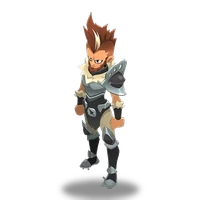
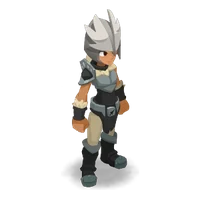
Forgelance : vrai rendu du jeu (8 têtes par sexe, couleurs, capes)
- Le jeu demande à DofusDB le corps et la tête séparément, cale la tête sur l'ombre au sol, la pose sur le cou et colore la peau quand elle arrive pâle (forgeLook dans ui.js). Résultat gardé en mémoire et dans le navigateur.
- Les 16 apparences de base et les portraits du Forgelance viennent de ce rendu ; choix de la tête et des couleurs réactivés pour lui.
- Les coiffes ne s'affichent pas sur le Forgelance (le moteur de rendu ne sait pas les poser).
- sw.js : images de renderer.dofusdb.fr mises en cache, cache des images media-v6.

Claude-Session: https://claude.ai/code/session_01TgfgsFbfimzPE6UbE45j36

Changed region(s): [[0.3, 0.03, 0.72, 1.0]]

diff --git a/js/ui.js b/js/ui.js
@@ -176,23 +176,72 @@ const lookLocal = (cls, sex, hi) => `assets/look/${cls}_${sex === "f" ? "f" : "m
 function lookUrl(c, opts = {}) {
   const L = LK.CLASS_LOOKS[c.cls]; if (!L) return null; const sx = c.sex === "f" ? "f" : "m"; const D2 = L[sx]; const hi = Math.max(0, Math.min(D2.heads.length - 1, c.head || 0));
   const skins = [D2.body, D2.heads[hi]];
-  if (!opts.bare && c.equip) ["coiffe", "cape"].forEach((sl) => { const it = S && S.items[c.equip[sl]]; const sk = it && LK.ITEM_SKINS[it.tpl]; if (sk) skins.push(sk); });
+  if (!opts.bare && c.equip) ["coiffe", "cape"].forEach((sl) => { const it = S && S.items[c.equip[sl]]; const sk = it && LK.ITEM_SKINS[it.tpl]; if (sk && !(c.cls === "forge" && sl === "coiffe")) skins.push(sk); }); // le moteur de rendu ne pose aucune coiffe sur le Forgelance
   const pal = LK.PALETTES.find((p) => p.id === (opts.palette || c.palette)) || LK.PALETTES[0];
   const cols = D2.colors.slice(); if (pal && pal.c) pal.c.forEach((v, i) => (cols[i + 1] = v));
-  if (c.cls === "forge" || (skins.length === 2 && (!pal || !pal.c))) return lookLocal(c.cls, sx, hi); // Forgelance : rendu Ankama défaillant (tête détachée), on garde nos images recomposées
+  if (skins.length === 2 && (!pal || !pal.c)) return lookLocal(c.cls, sx, hi);
+  if (c.cls === "forge") return forgeLook(skins, cols, sx, hi); // Forgelance : tête recollée sur le cou (voir forgeLook)
   const look = `{1|${skins.join(",")}|${cols.map((v, i) => `${i + 1}=${v}`).join(",")}|140}`;
   let hex = ""; for (const ch of unescape(encodeURIComponent(look))) hex += ch.charCodeAt(0).toString(16).padStart(2, "0");
   return `https://static.ankama.com/dofus/renderer/look/${hex}/full/1/200_200-10.png`;
 }
-const lookImg = (c, cls = "look", opts) => { const u = lookUrl(c, opts); if (!u) return ""; const fb = lookLocal(c.cls, c.sex, c.head || 0); return `<img class="${cls}" src="${u}" alt="" loading="lazy" onerror="if(this.src.indexOf('assets/look')<0){this.src='${fb}'}else{this.style.visibility='hidden'}">`; };
+/* Forgelance : les moteurs de rendu (Ankama et DofusDB) dessinent sa tête à côté du corps et sans ses couleurs.
+   On demande à DofusDB (qui autorise la lecture des pixels) le corps seul et la tête seule, on cale la tête sur l'ombre au sol
+   (repère commun aux deux images), on la pose sur le cou et on colore la peau quand elle arrive pâle. Résultat gardé en mémoire et dans le navigateur. */
+const FORGE_NECK = [-290, -420], FORGE_KEY = "idlus-forge-v1", FORGE = { map: null, wait: {} };
+const forgeHex = (skins, cols) => { let x = ""; for (const ch of `{1|${skins.join(",")}|${cols.map((v, i) => `${i + 1}=${v}`).join(",")}|140}`) x += ch.charCodeAt(0).toString(16).padStart(2, "0"); return `https://renderer.dofusdb.fr/look/${x}/full/1/300_300.png`; };
+function forgeStore() { if (!FORGE.map) { FORGE.map = new Map(); try { (JSON.parse(localStorage.getItem(FORGE_KEY)) || []).forEach(([k, v]) => FORGE.map.set(k, v)); } catch (e) { /* stockage indisponible */ } } return FORGE.map; }
+function forgeLook(skins, cols, sx, hi) {
+  const key = skins.join("-") + "_" + cols.join("-"), m = forgeStore();
+  if (m.has(key)) return { src: m.get(key), key };
+  if (!FORGE.wait[key]) FORGE.wait[key] = forgeCompose(skins, cols).then((url) => {
+    m.delete(key); m.set(key, url); while (m.size > 12) m.delete(m.keys().next().value);
+    try { localStorage.setItem(FORGE_KEY, JSON.stringify([...m])); } catch (e) { /* stockage plein : on garde en mémoire */ }
+    document.querySelectorAll(`img[data-fk="${key}"]`).forEach((im) => (im.src = url));
+  }).catch(() => {}); // hors ligne : l'image locale reste
+  return { src: lookLocal("forge", sx, hi), key };
+}
+const forgeLoad = (u) => new Promise((ok, ko) => { const i = new Image(); i.crossOrigin = "anonymous"; i.onload = () => ok(i); i.onerror = ko; i.src = u; });
+const forgePix = (img) => { const c = document.createElement("canvas"); c.width = img.naturalWidth; c.height = img.naturalHeight; const x = c.getContext("2d"); x.drawImage(img, 0, 0); return { c, d: x.getImageData(0, 0, c.width, c.height) }; };
+function forgeShadow(d, W, H) { // bas de l'ombre au sol, largeur et centre juste au-dessus
+  const on = (x, y) => d[(y * W + x) * 4 + 3] > 4; let y = H - 1; while (y > 0) { let x = 0; while (x < W && !on(x, y)) x++; if (x < W) break; y--; }
+  const yy = y - 6; let x0 = W, x1 = -1; for (let x = 0; x < W; x++) if (on(x, yy)) { if (x < x0) x0 = x; x1 = x; } return { y, w: Math.max(1, x1 - x0), cx: (x0 + x1) / 2 };
+}
+function forgeTint(d, cols) { // certaines têtes arrivent avec la peau non colorée (beige pâle) : on lui donne la couleur de peau ; le casque reste en métal
+  const skin = [(cols[0] >> 16) & 255, (cols[0] >> 8) & 255, cols[0] & 255];
+  for (let i = 0; i < d.length; i += 4) {
+    if (!d[i + 3]) continue; const r = d[i], g = d[i + 1], b = d[i + 2], mx = Math.max(r, g, b), mn = Math.min(r, g, b);
+    if (mx < 150 || mx - mn < 18 || !(r > b + 15 && r >= g) || (mx - mn) / mx > 0.3) continue;
+    const k = Math.min(1.2, (r * 0.3 + g * 0.59 + b * 0.11) / 215); d[i] = Math.min(255, skin[0] * k); d[i + 1] = Math.min(255, skin[1] * k); d[i + 2] = Math.min(255, skin[2] * k);
+  }
+}
+async function forgeCompose(skins, cols) {
+  const [B, Hd] = await Promise.all([forgeLoad(forgeHex([skins[0], ...skins.slice(2)], cols)), forgeLoad(forgeHex([skins[1]], cols))]);
+  const b = forgePix(B), h = forgePix(Hd), W = b.c.width, H = b.c.height, HW = h.c.width, HH = h.c.height, d = h.d.data;
+  const sb = forgeShadow(b.d.data, W, H), sh = forgeShadow(d, HW, HH), k = sb.w / sh.w;
+  let cut = HH, run = 0, best = 0; // l'ombre de la tête seule est sous la plus grande bande vide : on l'efface
+  for (let y = 0; y < HH; y++) { let x = 0; while (x < HW && d[(y * HW + x) * 4 + 3] <= 4) x++; if (x === HW) { if (++run > best) { best = run; cut = y; } } else run = 0; }
+  d.fill(0, cut * HW * 4); forgeTint(d, cols); h.c.getContext("2d").putImageData(h.d, 0, 0);
+  const pad = 400, out = document.createElement("canvas"); out.width = W; out.height = H + pad; const o = out.getContext("2d");
+  o.drawImage(B, 0, pad); o.drawImage(h.c, sb.cx - sh.cx * k + FORGE_NECK[0], pad + sb.y - sh.y * k + FORGE_NECK[1], HW * k, HH * k);
+  // recadrage comme les rendus Ankama (200 × 200, personnage sur ~90 % de la hauteur, centré)
+  const od = o.getImageData(0, 0, out.width, out.height).data; let x0 = W, y0 = out.height, x1 = 0, y1 = 0;
+  for (let y = 0; y < out.height; y++) for (let x = 0; x < W; x++) if (od[(y * W + x) * 4 + 3] > 4) { if (x < x0) x0 = x; if (x > x1) x1 = x; if (y < y0) y0 = y; if (y > y1) y1 = y; }
+  const S = 300, sc = Math.min(S * 0.905 / (y1 - y0), S * 0.9 / (x1 - x0)), fin = document.createElement("canvas"); fin.width = fin.height = S;
+  fin.getContext("2d").drawImage(out, x0, y0, x1 - x0, y1 - y0, (S - (x1 - x0) * sc) / 2, S * 0.045, (x1 - x0) * sc, (y1 - y0) * sc);
+  return fin.toDataURL("image/webp", 0.9);
+}
+const lookImg = (c, cls = "look", opts) => { const u = lookUrl(c, opts); if (!u) return ""; const fb = lookLocal(c.cls, c.sex, c.head || 0);
+  if (typeof u === "object") return `<img class="${cls}" src="${u.src}" data-fk="${u.key}" alt="" loading="lazy">`; // Forgelance recomposé (image locale en attendant)
+  return `<img class="${cls}" src="${u}" alt="" loading="lazy" onerror="if(this.src.indexOf('assets/look')<0){this.src='${fb}'}else{this.style.visibility='hidden'}">`; };
 function lookSheet(c) {
   const L = LK.CLASS_LOOKS[c.cls]; if (!L) return;
   const sx = c.sex === "f" ? "f" : "m";
   openSheet(`<h2>Apparence de ${h(c.name)}</h2>
     <div class="lookprev">${lookImg(c, "lookbig")}</div>
     <div class="small"><b>Sexe</b> <span class="seg">${[["m", "Homme"], ["f", "Femme"]].map(([v, n]) => `<button data-act="looksex" data-v="${v}" aria-pressed="${sx === v}">${n}</button>`).join("")}</span></div>
-    ${c.cls === "forge" ? "" : `<div class="small"><b>Tête</b><div class="headpick">${L[sx].heads.map((_, i) => `<button class="${(c.head || 0) === i ? "on" : ""}" data-act="lookhead" data-v="${i}">${`<img src="${lookLocal(c.cls, sx, i)}" alt="">`}</button>`).join("")}</div></div>`}
-    ${c.cls === "forge" ? `<p class="xs muted">Le Forgelance s'affiche avec son illustration officielle : une seule tête, ses couleurs d'origine, sans coiffe ni cape visibles.</p>` : ""}<div class="small" ${c.cls === "forge" ? 'style="display:none"' : ""}><b>Couleurs</b><div class="palpick">${LK.PALETTES.map((p) => { const cols = L[sx].colors.slice(); if (p.c) p.c.forEach((v, i) => (cols[i + 1] = v)); return `<button class="${(c.palette || "classique") === p.id ? "on" : ""}" data-act="lookpal" data-v="${p.id}"><span class="sw">${cols.slice(1, 5).map((v) => `<i style="background:#${v.toString(16).padStart(6, "0")}"></i>`).join("")}</span>${h(p.name)}</button>`; }).join("")}</div></div>
+    ${`<div class="small"><b>Tête</b><div class="headpick">${L[sx].heads.map((_, i) => `<button class="${(c.head || 0) === i ? "on" : ""}" data-act="lookhead" data-v="${i}">${`<img src="${lookLocal(c.cls, sx, i)}" alt="">`}</button>`).join("")}</div></div>`}
+    ${c.cls === "forge" ? `<p class="xs muted">Le Forgelance porte son casque de classe ; les coiffes ne s'affichent pas encore sur lui (les capes, si).</p>` : ""}<div class="small"><b>Couleurs</b><div class="palpick">${LK.PALETTES.map((p) => { const cols = L[sx].colors.slice(); if (p.c) p.c.forEach((v, i) => (cols[i + 1] = v)); return `<button class="${(c.palette || "classique") === p.id ? "on" : ""}" data-act="lookpal" data-v="${p.id}"><span class="sw">${cols.slice(1, 5).map((v) => `<i style="background:#${v.toString(16).padStart(6, "0")}"></i>`).join("")}</span>${h(p.name)}</button>`; }).join("")}</div></div>
     <p class="xs muted">${Object.keys(LK.ITEM_SKINS).length} coiffes et capes apparaissent déjà sur les héros ; les autres arriveront au fil des mises à jour.</p>
     <div><button class="btn primary" data-act="closesheet">Terminé</button></div>`);
 }
@@ -464,11 +513,11 @@ function classInfo(id, sex, hd) {
 }
 /* Choix de la tête dès la création du héros */
 function headPick(id, sex) {
-  const L = LK.CLASS_LOOKS[id]; const sx = sex === "f" ? "f" : "m"; if (!L || id === "forge" || L[sx].heads.length < 2) return "";
+  const L = LK.CLASS_LOOKS[id]; const sx = sex === "f" ? "f" : "m"; if (!L || L[sx].heads.length < 2) return "";
   const cur = Math.min(ui.startHead || 0, L[sx].heads.length - 1);
   return `<div class="stack" style="gap:4px"><span class="small muted">Tête</span><div class="headpick">${L[sx].heads.map((_, i) => `<button class="${cur === i ? "on" : ""}" data-act="starthead" data-v="${i}" aria-pressed="${cur === i}"><img src="${lookLocal(id, sx, i)}" alt="Tête ${i + 1}"></button>`).join("")}</div></div>`;
 }
-const startHeadOf = (id, sex) => { const L = LK.CLASS_LOOKS[id]; const n = L ? L[sex === "f" ? "f" : "m"].heads.length : 1; return id === "forge" ? 0 : Math.min(ui.startHead || 0, n - 1); };
+const startHeadOf = (id, sex) => { const L = LK.CLASS_LOOKS[id]; const n = L ? L[sex === "f" ? "f" : "m"].heads.length : 1; return Math.min(ui.startHead || 0, n - 1); };
 const hasPublicSave = () => { try { return !!localStorage.getItem("dofousxen-save"); } catch (e) { return false; } };
 function renderStart() {
   renderStatus(); renderNav();

diff --git a/sw.js b/sw.js
@@ -4,13 +4,13 @@
 const VERSION = "0.1.0";
 /* La version de test (/beta/) a ses propres caches : chaque service worker ne nettoie que les siens. */
 const P = /\/beta\/$/.test(self.registration.scope) ? "idlus-beta-" : "idlus-";
-const CORE = P + "core-" + VERSION, MEDIA = P + "media-v5";
+const CORE = P + "core-" + VERSION, MEDIA = P + "media-v6";
 const PRECACHE = ["./", "index.html", "css/style.css", "js/gamedata.js", "js/looks.js", "js/data.js", "js/engine.js", "js/systems.js", "js/ui.js", "js/admin.js", "manifest.webmanifest", "icons/icon-192.png", "icons/icon-512.png"];
 self.addEventListener("install", (e) => { e.waitUntil(caches.open(CORE).then((c) => c.addAll(PRECACHE)).then(() => self.skipWaiting())); });
 self.addEventListener("activate", (e) => {
   e.waitUntil(caches.keys().then((ks) => Promise.all(ks.filter((k) => (k.startsWith(P + "core-") && k !== CORE) || (k.startsWith(P + "media-") && k !== MEDIA)).map((k) => caches.delete(k)))).then(() => self.clients.claim()));
 });
-const isMedia = (u) => /\/(assets|icons)\//.test(u.pathname) || /fonts\.(gstatic|googleapis)\.com$/.test(u.hostname) || (u.hostname === "static.ankama.com" && u.pathname.startsWith("/dofus/renderer/"));
+const isMedia = (u) => /\/(assets|icons)\//.test(u.pathname) || /fonts\.(gstatic|googleapis)\.com$/.test(u.hostname) || (u.hostname === "static.ankama.com" && u.pathname.startsWith("/dofus/renderer/")) || u.hostname === "renderer.dofusdb.fr";
 self.addEventListener("fetch", (e) => {
   const req = e.request; if (req.method !== "GET") return;
   const u = new URL(req.url);

diff --git a/CLAUDE.md b/CLAUDE.md
@@ -6,7 +6,7 @@ Idle game de fan inspiré de DOFUS, par Mathis. Jeu : https://mathiss29.github.i
 - SPA en JavaScript sans build : `index.html`, `css/style.css`, `js/gamedata.js`, `js/looks.js`, `js/data.js`, `js/engine.js` (combat, stasis, équilibrage), `js/systems.js`, `js/ui.js` (rendu, CHANGELOG, GAME_VERSION).
 - Sauvegarde dans localStorage sous la clé `dofousxen-save` (ne pas renommer). Migrations via `E.VERSION` dans engine.js.
 - PWA : `sw.js` (VERSION = version du jeu ; MEDIA = cache des images, à incrémenter si une image change de contenu sans changer de nom), `manifest.webmanifest`, `icons/`.
-- Visuels : `assets/look` (héros en pied, rendus Ankama ; le Forgelance est recomposé à la main), `assets/ui` (icônes officielles), `assets/m`, `assets/s`, `assets/i`.
+- Visuels : `assets/look` (héros en pied, rendus Ankama ; le Forgelance est recomposé par le jeu à partir du rendu DofusDB, voir `forgeLook` dans ui.js), `assets/ui` (icônes officielles), `assets/m`, `assets/s`, `assets/i`.
 - Thèmes : `data-theme="emerald"` (défaut) et `"dark"` (Nuit violette).
 
 ## Publier une version
